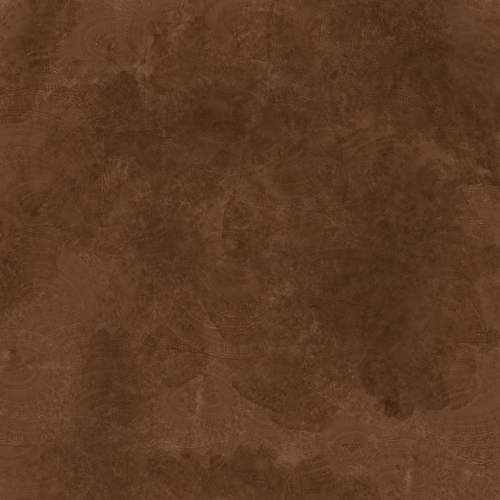
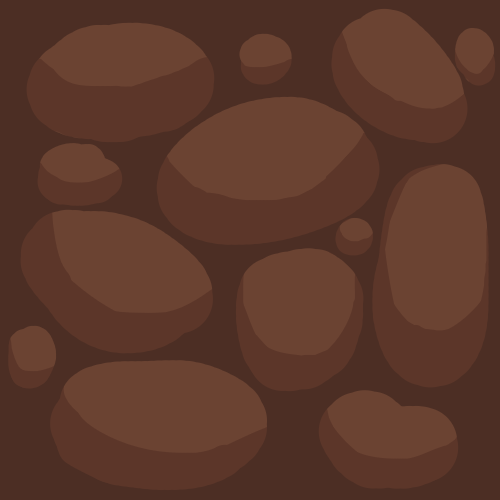
cleanup assets, added new ones & improved Options

diff --git a/Sources/screens.py b/Sources/screens.py
@@ -12,16 +12,16 @@ class Principal():
 
         self.surface.blit(
             pg.transform.scale(
-                pg.image.load(get_asset("mbckg.png")),
+                pg.image.load(get_asset("menu_background.png")),
                 (int(1920 * self.parent.ratio), int(1080 * self.parent.ratio))
             ),
             (0, 0)
         )
         # Les gros bouttons du centre d'abord !
         self.childs = [
-            Button(self, self.play, "playb"),
-            Button(self, self.options, "opb"),
-            Button(self, self.quit, "quitb"),
+            Button(self, self.play, "Jouer"),
+            Button(self, self.options, "Options"),
+            Button(self, self.quit, "Quitter"),
         ]
 
         self.update()
@@ -59,12 +59,10 @@ class Options():
         self.size = self.parent.size
         self.all_disp = False
 
-        if 'impact' in pg.font.get_fonts():
-            self.font = 'impact'
-        else:
-            self.font = pg.font.get_default_font()
+        self.font = self.parent.font
 
-        self.background = pg.transform.scale(pg.image.load(get_asset("obckg.png")), (int(1920 * self.parent.ratio), int(1080 * self.parent.ratio)))
+        self.background = pg.transform.scale(pg.image.load(get_asset("menu_background.png")), (int(1920 * self.parent.ratio), int(1080 * self.parent.ratio)))
+
         self.childs = [
             Checkbox(self, self.fullscreen, self.parent.config.get('fullscreen')),
             Slider(self, self.parent.config.get('volume')),
@@ -95,18 +93,39 @@ class Options():
 
     def update(self):
         # Need to reload image from file, or scale will compress it
-        self.background = pg.transform.scale(pg.image.load(get_asset("obckg.png")), (int(1920 * self.parent.ratio), int(1080 * self.parent.ratio)))
+        self.background = pg.transform.scale(pg.image.load(get_asset("menu_background.png")), (int(1920 * self.parent.ratio), int(1080 * self.parent.ratio)))
 
         ratio = self.parent.ratio
+        # Show captions
+        text = self.font.render("Inputs", True, (0, 0, 0))
+        self.background.blit(text, (int(600 * ratio), int(425 * ratio)))
+        text = self.font.render("Left", True, (0, 0, 0))
+        self.background.blit(text, (int(700 * ratio), int(485 * ratio)))
+        text = self.font.render("Right", True, (0, 0, 0))
+        self.background.blit(text, ((700 * ratio), int(545 * ratio)))
+        text = self.font.render("Jump", True, (0, 0, 0))
+        self.background.blit(text, (int(700 * ratio), int(605 * ratio)))
+        text = self.font.render("Pause", True, (0, 0, 0))
+        self.background.blit(text, (int(700 * ratio), int(665 * ratio)))
+
+        text = self.font.render("Volume", True, (0, 0, 0))
+        self.background.blit(text, (int(600 * ratio), int(778 * ratio)))
+        text = self.font.render("Fullscreen", True, (0, 0, 0))
+        self.background.blit(text, (int(600 * ratio), int(875 * ratio)))
+
+        # Fullscreen checkbox
         self.childs[0].pos = Vector(1020 * ratio, 875 * ratio).with_ints()
         self.childs[0].size = Vector(50 * ratio, 50 * ratio).with_ints()
+        # Volume slider
         self.childs[1].pos = Vector(950 * ratio, 778 * ratio).with_ints()
         self.childs[1].size = Vector(350 * ratio, 350 * ratio).with_ints()
+        # Key inputs
         for i in range(4):
             self.childs[2+i].pos = Vector(950 * ratio, 485 * ratio + i * 60 * ratio).with_ints()
             self.childs[2+i].size = Vector(300 * ratio, 50 * ratio).with_ints()
             self.childs[2+i].update()
 
+        # Back
         self.childs[6].pos = Vector(1450 * ratio, 60 * ratio).with_ints()
         self.childs[6].size = Vector(150 * ratio, 60 * ratio).with_ints()
         self.childs[6].update()

diff --git a/Sources/widget.py b/Sources/widget.py
@@ -25,15 +25,22 @@ class Button(Widget):
         super().__init__(parent)
 
         self.on_click, self.name = on_click, name
+        self.font = self.parent.parent.font
 
         try:
-            self.image = pg.image.load(get_asset(f'{self.name}.png'))
+            self.image = pg.image.load(get_asset("button_background.png"))
+            text = self.font.render(self.name, True, (255, 255, 255))
+            text_size = Vector.from_tuple(text.get_size())
+            image_size = Vector.from_tuple(self.image.get_size())
+            pos = (image_size - text_size) // 2
+            self.image.blit(text, pos.as_tuple())
         except FileNotFoundError:
             self.image = pg.image.load(get_asset("missing.png"))
 
         self.mask = None
 
     def display(self):
+        self.parent.surface.blit(self.image, self.pos.as_tuple())
         self.parent.surface.blit(self.image, self.pos.as_tuple())
         if self.hovered:
             self.parent.surface.blit(self.mask, self.pos.as_tuple())
@@ -148,17 +155,13 @@ class KeyBinder(Widget):
         self.awaiting = False
 
     def update(self):
-        ratio = self.parent.parent.ratio
-
         self.image = pg.Surface(self.size.as_tuple())
         if self.hovered:
             self.image.fill((200, 200, 200))
         else:
             self.image.fill((255, 255, 255))
 
-        # Retrieves a Font object, asking for Option.font (impact or default), renders the character corresponding
-        # to self.key and blits it onto self.image
-        txt = pg.font.SysFont(self.parent.font, int(30 * ratio)).render(KeyBinder.KEYBINDS[self.key], True, (0, 0, 0))
+        txt = self.parent.font.render(KeyBinder.KEYBINDS[self.key], True, (0, 0, 0))
         size = txt.get_size()
         self.image.blit(txt, ((self.size.x - size[0]) // 2, 0))
 

diff --git a/Sources/level.py b/Sources/level.py
@@ -23,7 +23,7 @@ class Level:
         # Définir quel map a quel thème plus tard
         if 0 <= self.number_level <= 99:
             # À modifier quand on aura les assets par un for
-            dirt = pg.image.load(get_asset("dirt_2.png"))
+            dirt = pg.image.load(get_asset("dirt.png"))
             dirt = dirt_variation = pg.transform.scale(dirt, (64, 64))
             for _ in range(4):
                 dirt_variation = pg.transform.rotate(dirt_variation, -90)
@@ -36,6 +36,9 @@ class Level:
         red_block = pg.Surface((64,64))
         red_block.fill((255,0,0))
 
+        finish_block = pg.image.load(get_asset("finish.png"))
+        finish_block = pg.transform.scale(finish_block, (64, 64))
+
         self.level_surface = pg.Surface(size)
         # Tells pg that every perfectly black pixel should be transparent, the hex of black pixels should be 010101
         self.level_surface.set_colorkey((0, 0, 0))
@@ -46,6 +49,8 @@ class Level:
                     self.level_surface.blit(random.choice(self.blocks_im), (x * 64, y * 64))
                 elif self.level_array[y][x] == 2:
                     self.level_surface.blit(red_block, (x * 64, y * 64))
+                elif self.level_array[y][x] == 3:
+                    self.level_surface.blit(finish_block, (x * 64, y * 64))
 
     def display(self):
         self.game.surface.blit(

diff --git a/Sources/game.py b/Sources/game.py
@@ -21,9 +21,9 @@ class Game:
         self.player = Player(self, self.level.spawn)
 
         self.config = self.parent.config
-        self.up_key = self.config.get('keybinds')[2] # pg.K_UP
         self.left_key = self.config.get('keybinds')[0] # pg.K_LEFT
         self.right_key = self.config.get('keybinds')[1] # pg.K_RIGHT
+        self.up_key = self.config.get('keybinds')[2] # pg.K_UP
 
         self.running = True
 

diff --git a/Sources/menu.py b/Sources/menu.py
@@ -13,6 +13,8 @@ class Menu():
         pg.init()
         pg.font.init()
 
+        self.font = pg.font.Font(get_asset("Hooky-Regular.otf"), 48)
+
         self.read_config()
         if self.config.get('fullscreen'):
             pg.display.set_mode((1920, 1080), pg.FULLSCREEN)
